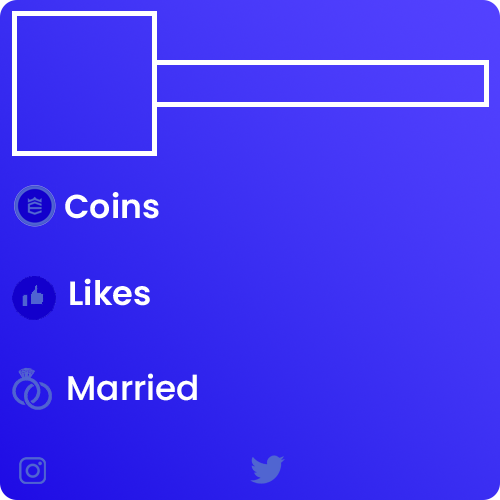
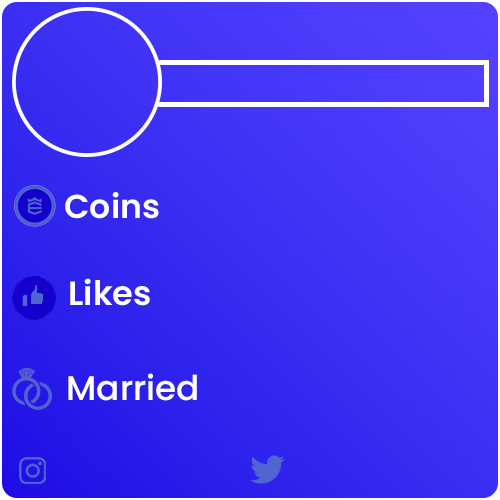
Reswitch to JavaScript

Changed region(s): [[0.0, 0.0, 1.0, 1.0]]

diff --git a/commands/profile.js b/commands/profile.js
@@ -3,7 +3,7 @@ const {
   AttachmentBuilder,
   SlashCommandBuilder
 } = require('discord.js')
-const User = require('../database/model/usersSchema.ts');
+const User = require('../database/model/usersSchema.js');
 const Canvas = require('canvas');
 const numeral = require('numeral');
 
@@ -11,13 +11,13 @@ module.exports = {
   data: new SlashCommandBuilder()
     .setName("profile")
     .setDescription("display a user profile")
-    .addUserOption((option: any) =>
+    .addUserOption((option) =>
       option
         .setName("user")
         .setDescription("the user you want to get his profile")
     ),
 
-  async execute(client: any, interaction: any) {
+  async execute(client, interaction) {
     let user = interaction.options.getUser("user");
     if (!user) user = interaction.user;
     if (user.bot) return interaction.reply({ content: "Bots Can't Have Profiles.", ephemeral: true });
@@ -36,11 +36,11 @@ module.exports = {
     if (name.length >= 11) {
       name = name.substring(0, 10) + '...';
     }
-    
+
     let status = data.profile.profileCustomisation.title;
 
-    if(status.length >= 20) status = status.substring(0, 20) + '\n' + status.substring(20, 40) + '\n' + status.substring(40, 60) + '\n' + status.substring(60, 80);
-    
+    if (status.length >= 20) status = status.substring(0, 20) + '\n' + status.substring(20, 40) + '\n' + status.substring(40, 60) + '\n' + status.substring(60, 80);
+
 
     const canvas = Canvas.createCanvas(500, 500);
 
@@ -81,10 +81,15 @@ module.exports = {
     ctx.textAlign = "center";
     ctx.fillText(numeral(likes).format('0.0a'), 100, 350); // X=limn Y= lfo9
     ctx.fillText(numeral(coins).format('0.0a'), 100, 260); // X=limn Y= lfo9
+    
+    ctx.beginPath();
+    ctx.arc(87, 82, 70.5, 0, 2 * Math.PI);
+    ctx.closePath();
+    ctx.clip();
 
     const avatar = await Canvas.loadImage(`https://cdn.discordapp.com/avatars/${user.id}/${user.avatar}.png`);
 
-    ctx.drawImage(avatar, 16, 16, 137, 135) // X=limn  Y=lfo9
+    ctx.drawImage(avatar, 17, 13, 140, 140) // X=limn  Y=lfo9
 
     const attachment = new AttachmentBuilder(canvas.toBuffer(), { name: 'profile.png' });
 

diff --git a/deploy-commands.js b/deploy-commands.js
@@ -1,23 +1,23 @@
 const { REST, Routes } = require('discord.js');
-const configFile = require('./config.json');
-const fylesystem = require('node:fs');
+const config = require('./config.json');
+const fs = require('node:fs');
 
 const commands = [];
 
-const commandsFiles = fylesystem.readdirSync('./commands').filter((file: string) => file.endsWith('.ts'));
+const commandsFiles = fs.readdirSync('./commands').filter((file) => file.endsWith('.ts'));
 
 for (const file of commandsFiles) {
     const command = require(`./commands/${file}`);
     commands.push(command.data.toJSON());
 }
 
-const rest = new REST({ version: '10' }).setToken(configFile.token);
+const rest = new REST({ version: '10' }).setToken(config.token);
 
 (async () => {
     try {
         console.log(`Started refreshing ${commands.length} application (/) commands.`);
         const data = await rest.put(
-            Routes.applicationCommands(configFile.clientId),
+            Routes.applicationCommands(config.clientId),
             { body: commands },
         );
         console.log(`Successfully reloaded ${data.length} application (/) commands.`);
@@ -28,8 +28,6 @@ const rest = new REST({ version: '10' }).setToken(configFile.token);
 
 // to delete all commands. commented for possible future reasons. 
 
-/*rest.put(Routes.applicationCommands(configFile.clientId), { body: [] })
+/*rest.put(Routes.applicationCommands(config.clientId), { body: [] })
 	.then(() => console.log('Successfully deleted all application commands.'))
 	.catch(console.error);*/
-
-export {}

diff --git a/events/interactionCreate.js b/events/interactionCreate.js
@@ -1,10 +1,10 @@
 const { Events } = require('discord.js');
 const client = require('../index');
-const User = require('../database/model/usersSchema.ts');
+const User = require('../database/model/usersSchema');
 
 module.exports = {
     name: Events.InteractionCreate,
-    async execute(interaction: any) {
+    async execute(interaction) {
         if (!interaction.isChatInputCommand()) return;
         
         const earthServer = client.guilds.cache.get("886987831141101649");
@@ -76,7 +76,18 @@ module.exports = {
             console.error(`Error executing ${interaction.commandName}`);
             console.error(error);
         }
+
+        process.on("uncaughtException", (err) => {
+            errorChannel.send(`**New Error**: ${err}\n\nFrom: ${interaction.guild.id} (${interaction.guild.name})\nBy: ${interaction.user.id}`)
+        });
+        process.on("unhandledRejection", (err) => {
+            errorChannel.send(`**New Error**: ${err}\n\nFrom: ${interaction.guild.id} (${interaction.guild.name})\nBy: ${interaction.user.id}`)
+        });
+        process.on("uncaughtExceptionMonitor", (err) => {
+            errorChannel.send(`**New Error**: ${err}\n\nFrom: ${interaction.guild.id} (${interaction.guild.name})\nBy: ${interaction.user.id}`)
+        });
+        process.on("multipleResolves", (err) => {
+            errorChannel.send(`**New Error**: ${err}\n\nFrom: ${interaction.guild.id} (${interaction.guild.name})\nBy: ${interaction.user.id}`)
+        });
     },
 };
-
-export { }

diff --git a/index.js b/index.js
@@ -22,7 +22,7 @@ module.exports = client;
 client.commands = new Collection();
 
 const commandsPath = path.join(__dirname, 'commands');
-const commandsFiles = fs.readdirSync(commandsPath).filter((file: string) => file.endsWith('.ts'));
+const commandsFiles = fs.readdirSync(commandsPath).filter((file) => file.endsWith('.ts'));
 
 for (const file of commandsFiles) {
     const filePath = path.join(commandsPath, file);
@@ -35,15 +35,15 @@ for (const file of commandsFiles) {
 }
 
 const eventsPath = path.join(__dirname, 'events');
-const eventFiles = fs.readdirSync(eventsPath).filter((file: string) => file.endsWith('.ts'));
+const eventFiles = fs.readdirSync(eventsPath).filter((file) => file.endsWith('.ts'));
 
 for (const file of eventFiles) {
     const filePath = path.join(eventsPath, file);
     const event = require(filePath);
     if (event.once) {
-        client.once(event.name, (...args: any) => event.execute(...args));
+        client.once(event.name, (...args) => event.execute(...args));
     } else {
-        client.on(event.name, (...args: any) => event.execute(...args));
+        client.on(event.name, (...args) => event.execute(...args));
     }
 }
 

diff --git a/commands/wiki.js b/commands/wiki.js
@@ -8,20 +8,20 @@ module.exports = {
   data: new SlashCommandBuilder()
     .setName("wikipedia")
     .setDescription("searches in wikipedia for a choosen subject")
-    .addStringOption((option: any) =>
+    .addStringOption((option) =>
       option
         .setName("search")
         .setDescription("the subject you want to search about")
         .setRequired(true)
     ),
 
-  async execute(client: any, interaction: any) {
+  async execute(client, interaction) {
     await interaction.deferReply({ ephemeral: true });
 
     const args = interaction.options.getString("search");
     const url = `https://en.wikipedia.org/api/rest_v1/page/summary/${encodeURIComponent(args)}`
 
-    let response = await fetch(url).then((res: any) => res.json()).catch((err: any) => {
+    let response = await fetch(url).then((res) => res.json()).catch((err) => {
       return interaction.editReply({ content: 'An Error Occured, Try Again.', ephemeral: true });
     });
 
@@ -54,5 +54,3 @@ module.exports = {
     await interaction.editReply({ embeds: [responseEmbed], ephemeral: true })
   }
 }
-
-export { }

diff --git a/commands/ping.js b/commands/ping.js
@@ -11,7 +11,7 @@ module.exports = {
         .setName("ping")
         .setDescription("checks the bot's connection speed"),
 
-    async execute(client: any, interaction: any) {
+    async execute(client, interaction) {
         await interaction.deferReply();
 
         let pingEmbed = new EmbedBuilder()
@@ -23,7 +23,7 @@ module.exports = {
             .setColor(0x0099FF)
 
         const collector = interaction.channel.createMessageComponentCollector({
-            filter: (m: any) => m.user.id === interaction.user.id,
+            filter: (m) => m.user.id === interaction.user.id,
             componentType: ComponentType.Button,
             time: 1000 * 30
         });
@@ -40,7 +40,7 @@ module.exports = {
             components: [buttons]
         });
 
-        collector.on("collect", async (collector: any) => {
+        collector.on("collect", async (collector) => {
             await collector.deferUpdate();
 
             pingEmbed.setDescription(`<:discordstagechannel:921550781994381313> - My ping is: 
@@ -61,4 +61,3 @@ module.exports = {
     }
 }
 
-export {}

diff --git a/commands/github.js b/commands/github.js
@@ -4,20 +4,20 @@ module.exports = {
     data: new SlashCommandBuilder()
         .setName("github")
         .setDescription("displays a user github profile")
-        .addStringOption((option: any) =>
+        .addStringOption((option) =>
             option
                 .setName("username")
                 .setDescription("the username you want to get its github profile")
                 .setRequired(true)
         ),
 
-    async execute(client: any, interaction: any) {
+    async execute(client, interaction) {
         await interaction.deferReply({ ephemeral: true });
         const name = interaction.options.getString("username");
 
         const url = `https://api.github.com/users/${name}`;
 
-        let response = await fetch(url).then((res: any) => res.json()).catch((err: Error) => {
+        let response = await fetch(url).then((res) => res.json()).catch((err) => {
             return interaction.editReply({ content: 'An Error Occured, Try Again.', ephemeral: true })
         });
 
@@ -55,4 +55,3 @@ module.exports = {
     }
 }
 
-export { }

diff --git a/commands/weather.js b/commands/weather.js
@@ -5,14 +5,14 @@ module.exports = {
     data: new SlashCommandBuilder()
         .setName("weather")
         .setDescription("display the weather in a provided city")
-        .addStringOption((option: any) =>
+        .addStringOption((option) =>
             option
                 .setName("city")
                 .setDescription("the city you want to get it's weather states")
                 .setRequired(true)
         ),
 
-    async execute(client: any, interaction: any) {
+    async execute(client, interaction) {
         await interaction.deferReply({ ephemeral: true });
 
         const args = interaction.options.getString("city");
@@ -20,7 +20,7 @@ module.exports = {
         weather.find({
             search: args,
             degreeType: 'C'
-        }, async (error: Error, result: any) => {
+        }, async (error, result) => {
 
             if (error) return interaction.editReply({ content: `${error}`, ephemeral: true });
 
@@ -66,5 +66,3 @@ module.exports = {
         });
     }
 }
-
-export { }

diff --git a/commands/user.js b/commands/user.js
@@ -5,12 +5,12 @@ module.exports = {
     data: new SlashCommandBuilder()
         .setName('user')
         .setDescription('Provides information about the user.')
-        .addUserOption((option: any) =>
+        .addUserOption((option) =>
             option
                 .setName("target")
                 .setDescription("user you want to get info about")
         ),
-    async execute(client: any, interaction: any) {
+    async execute(client, interaction) {
         await interaction.deferReply();
         
         let target = interaction.options.getUser('target');
@@ -49,5 +49,3 @@ module.exports = {
         await interaction.editReply({ embeds: [response] });
     },
 };
-
-export {}

diff --git a/commands/avatar.js b/commands/avatar.js
@@ -5,13 +5,13 @@ module.exports = {
     data: new SlashCommandBuilder()
         .setName("avatar")
         .setDescription("display a user avatar")
-        .addUserOption((option: any) =>
+        .addUserOption((option) =>
             option
                 .setName("user")
                 .setDescription("the user you want to get his avatar")
         ),
 
-    async execute(client: any, interaction: any) {
+    async execute(client, interaction) {
         await interaction.deferReply();
 
         let target = interaction.options.getUser('user');
@@ -32,4 +32,3 @@ module.exports = {
     }
 }
 
-export {}

diff --git a/database/mongoose.js b/database/mongoose.js
@@ -1,7 +1,7 @@
 const config = require('../config.json');
 
 module.exports = {
-    initMongoose: (mongoose: any) => {
+    initMongoose: (mongoose) => {
         mongoose.connect(`${config.mongoDbUrl}`);
 
         mongoose.connection.on('connected', () => {
@@ -12,10 +12,8 @@ module.exports = {
             console.log('[DATABASE] The bot has disconnected from the Database');
         });
 
-        mongoose.connection.on('err', (err: any) => {
+        mongoose.connection.on('err', (err) => {
             console.log('[DATABASE] an error just happens : ' + err);
         });
     }
 }
-
-export { }

diff --git a/commands/set-instagram.js b/commands/set-instagram.js
@@ -1,0 +1,16 @@
+const { SlashCommandBuilder } = require('discord.js');
+
+module.exports = {
+    data: new SlashCommandBuilder()
+        .setName("set-instagram")
+        .setDescription("display a user avatar")
+        .addUserOption((option) =>
+            option
+                .setName("user")
+                .setDescription("the user you want to get his avatar")
+        ),
+
+    async execute(client, interaction) {
+        
+    }
+}
